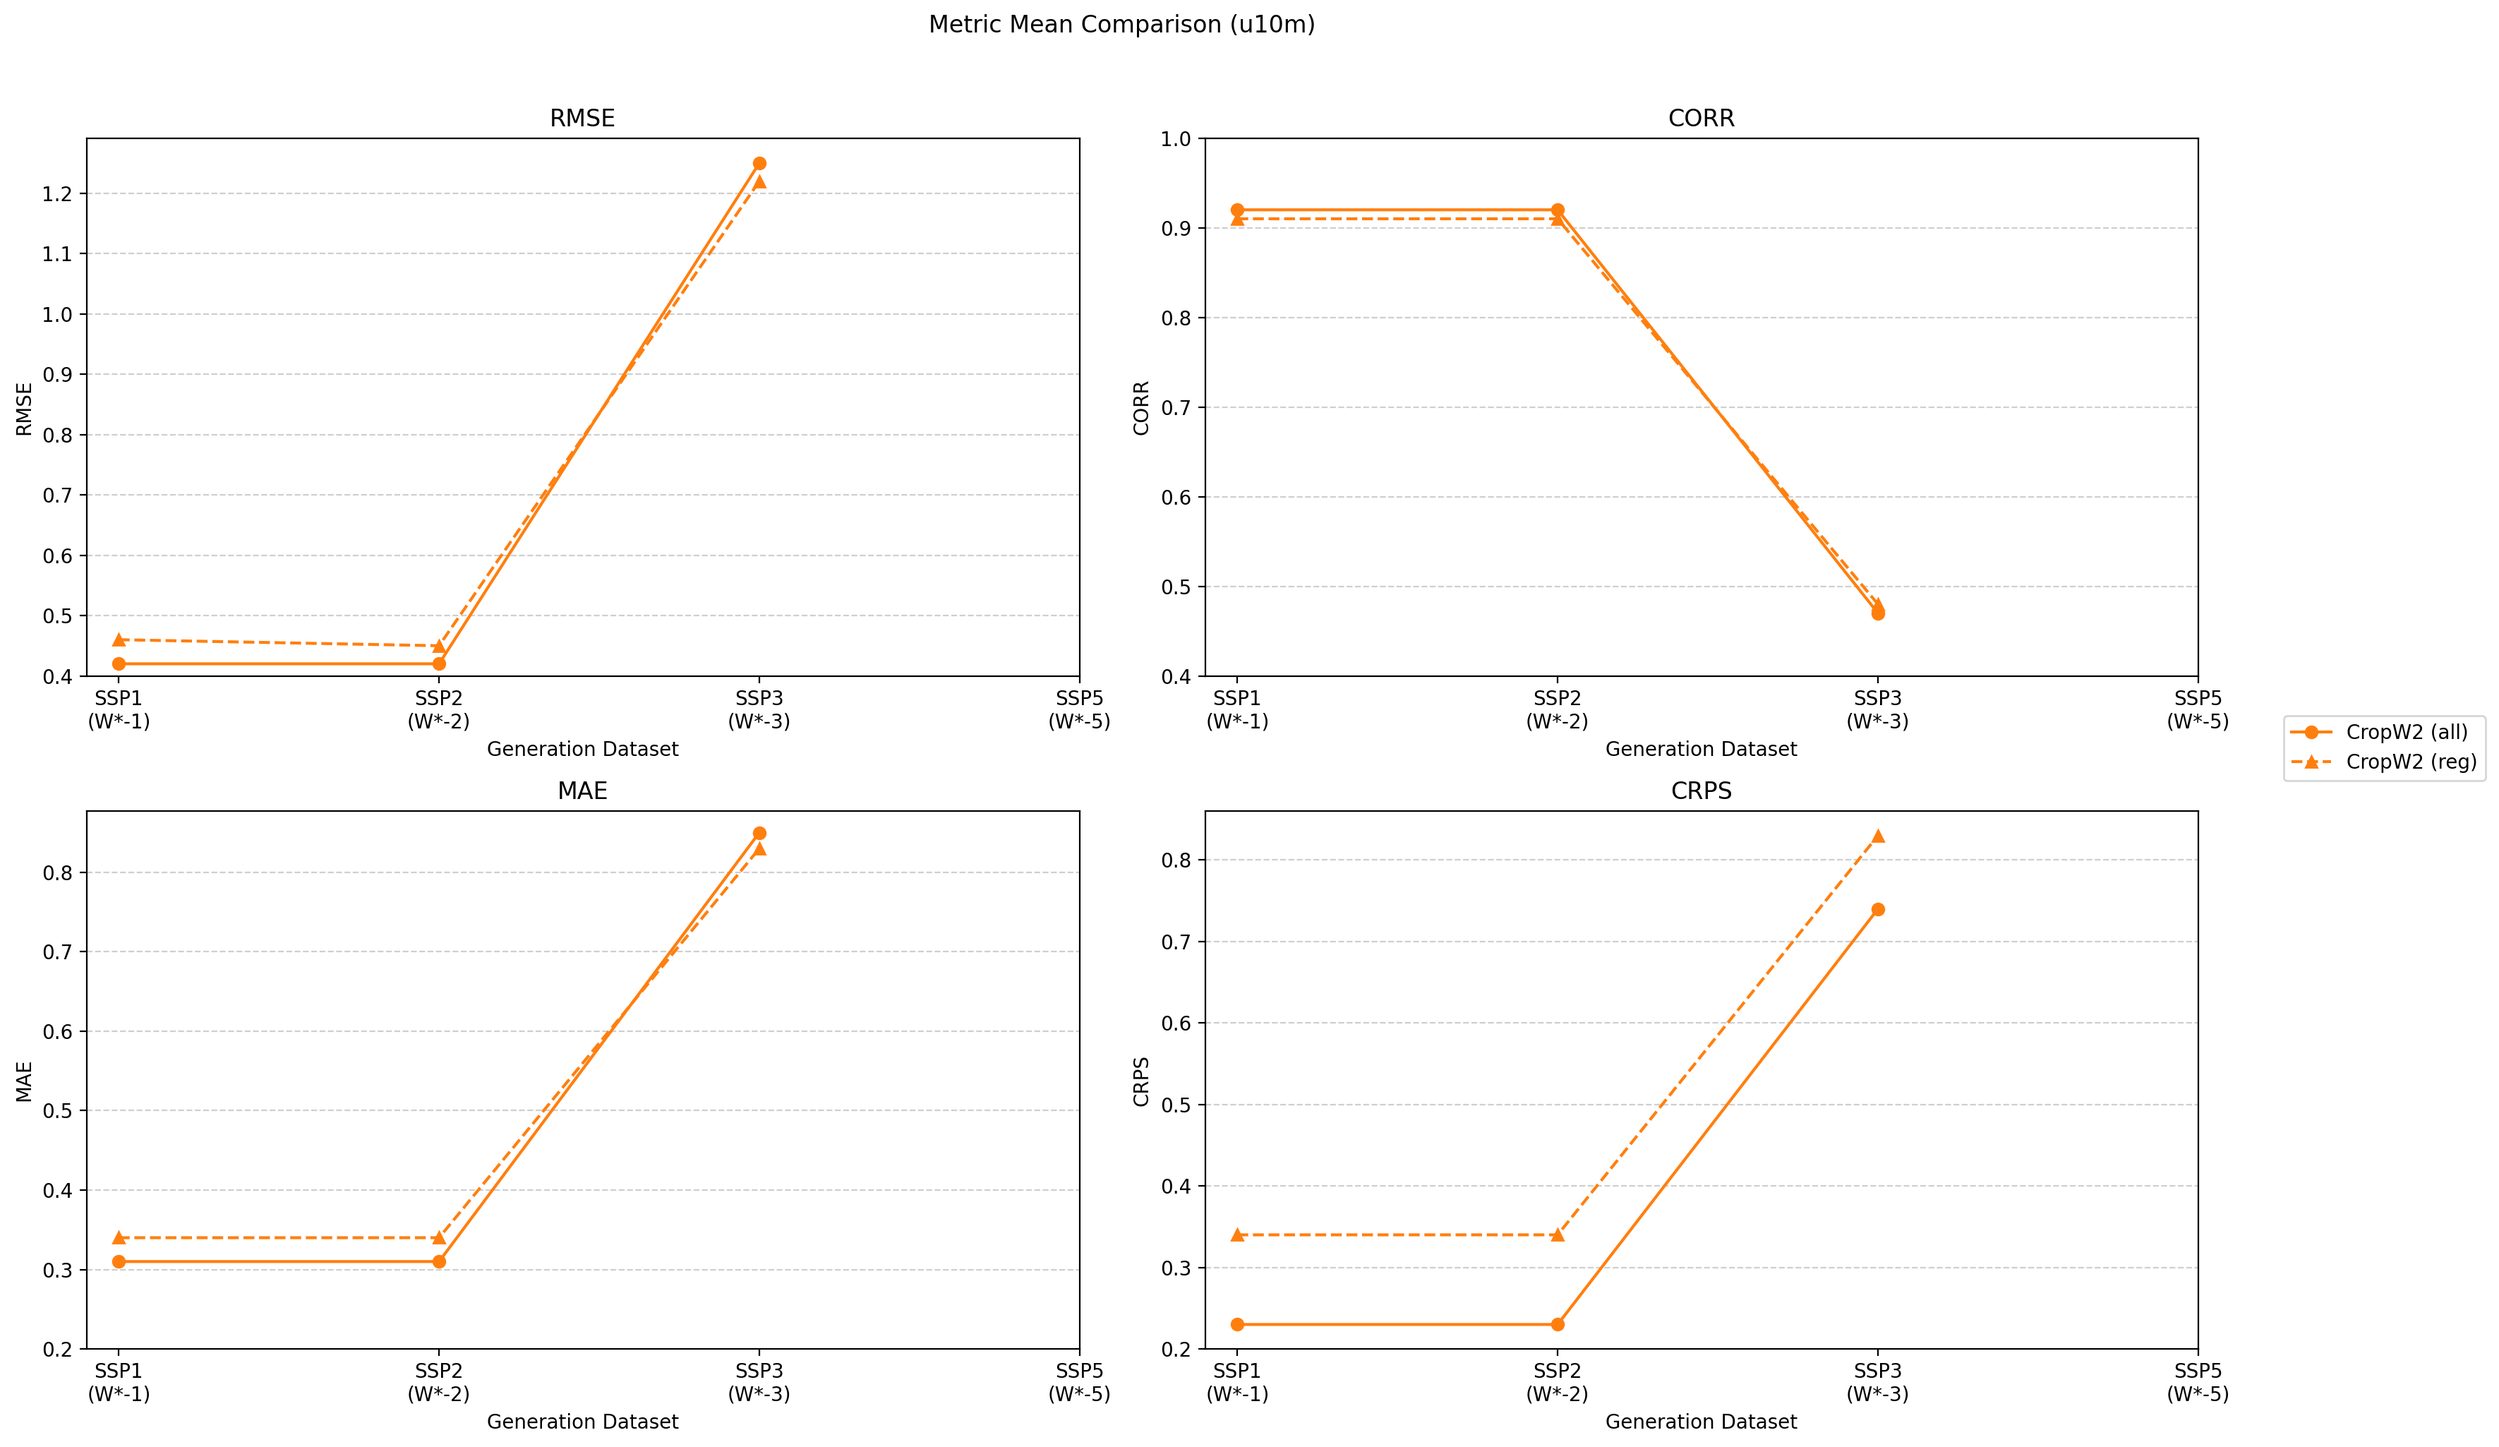
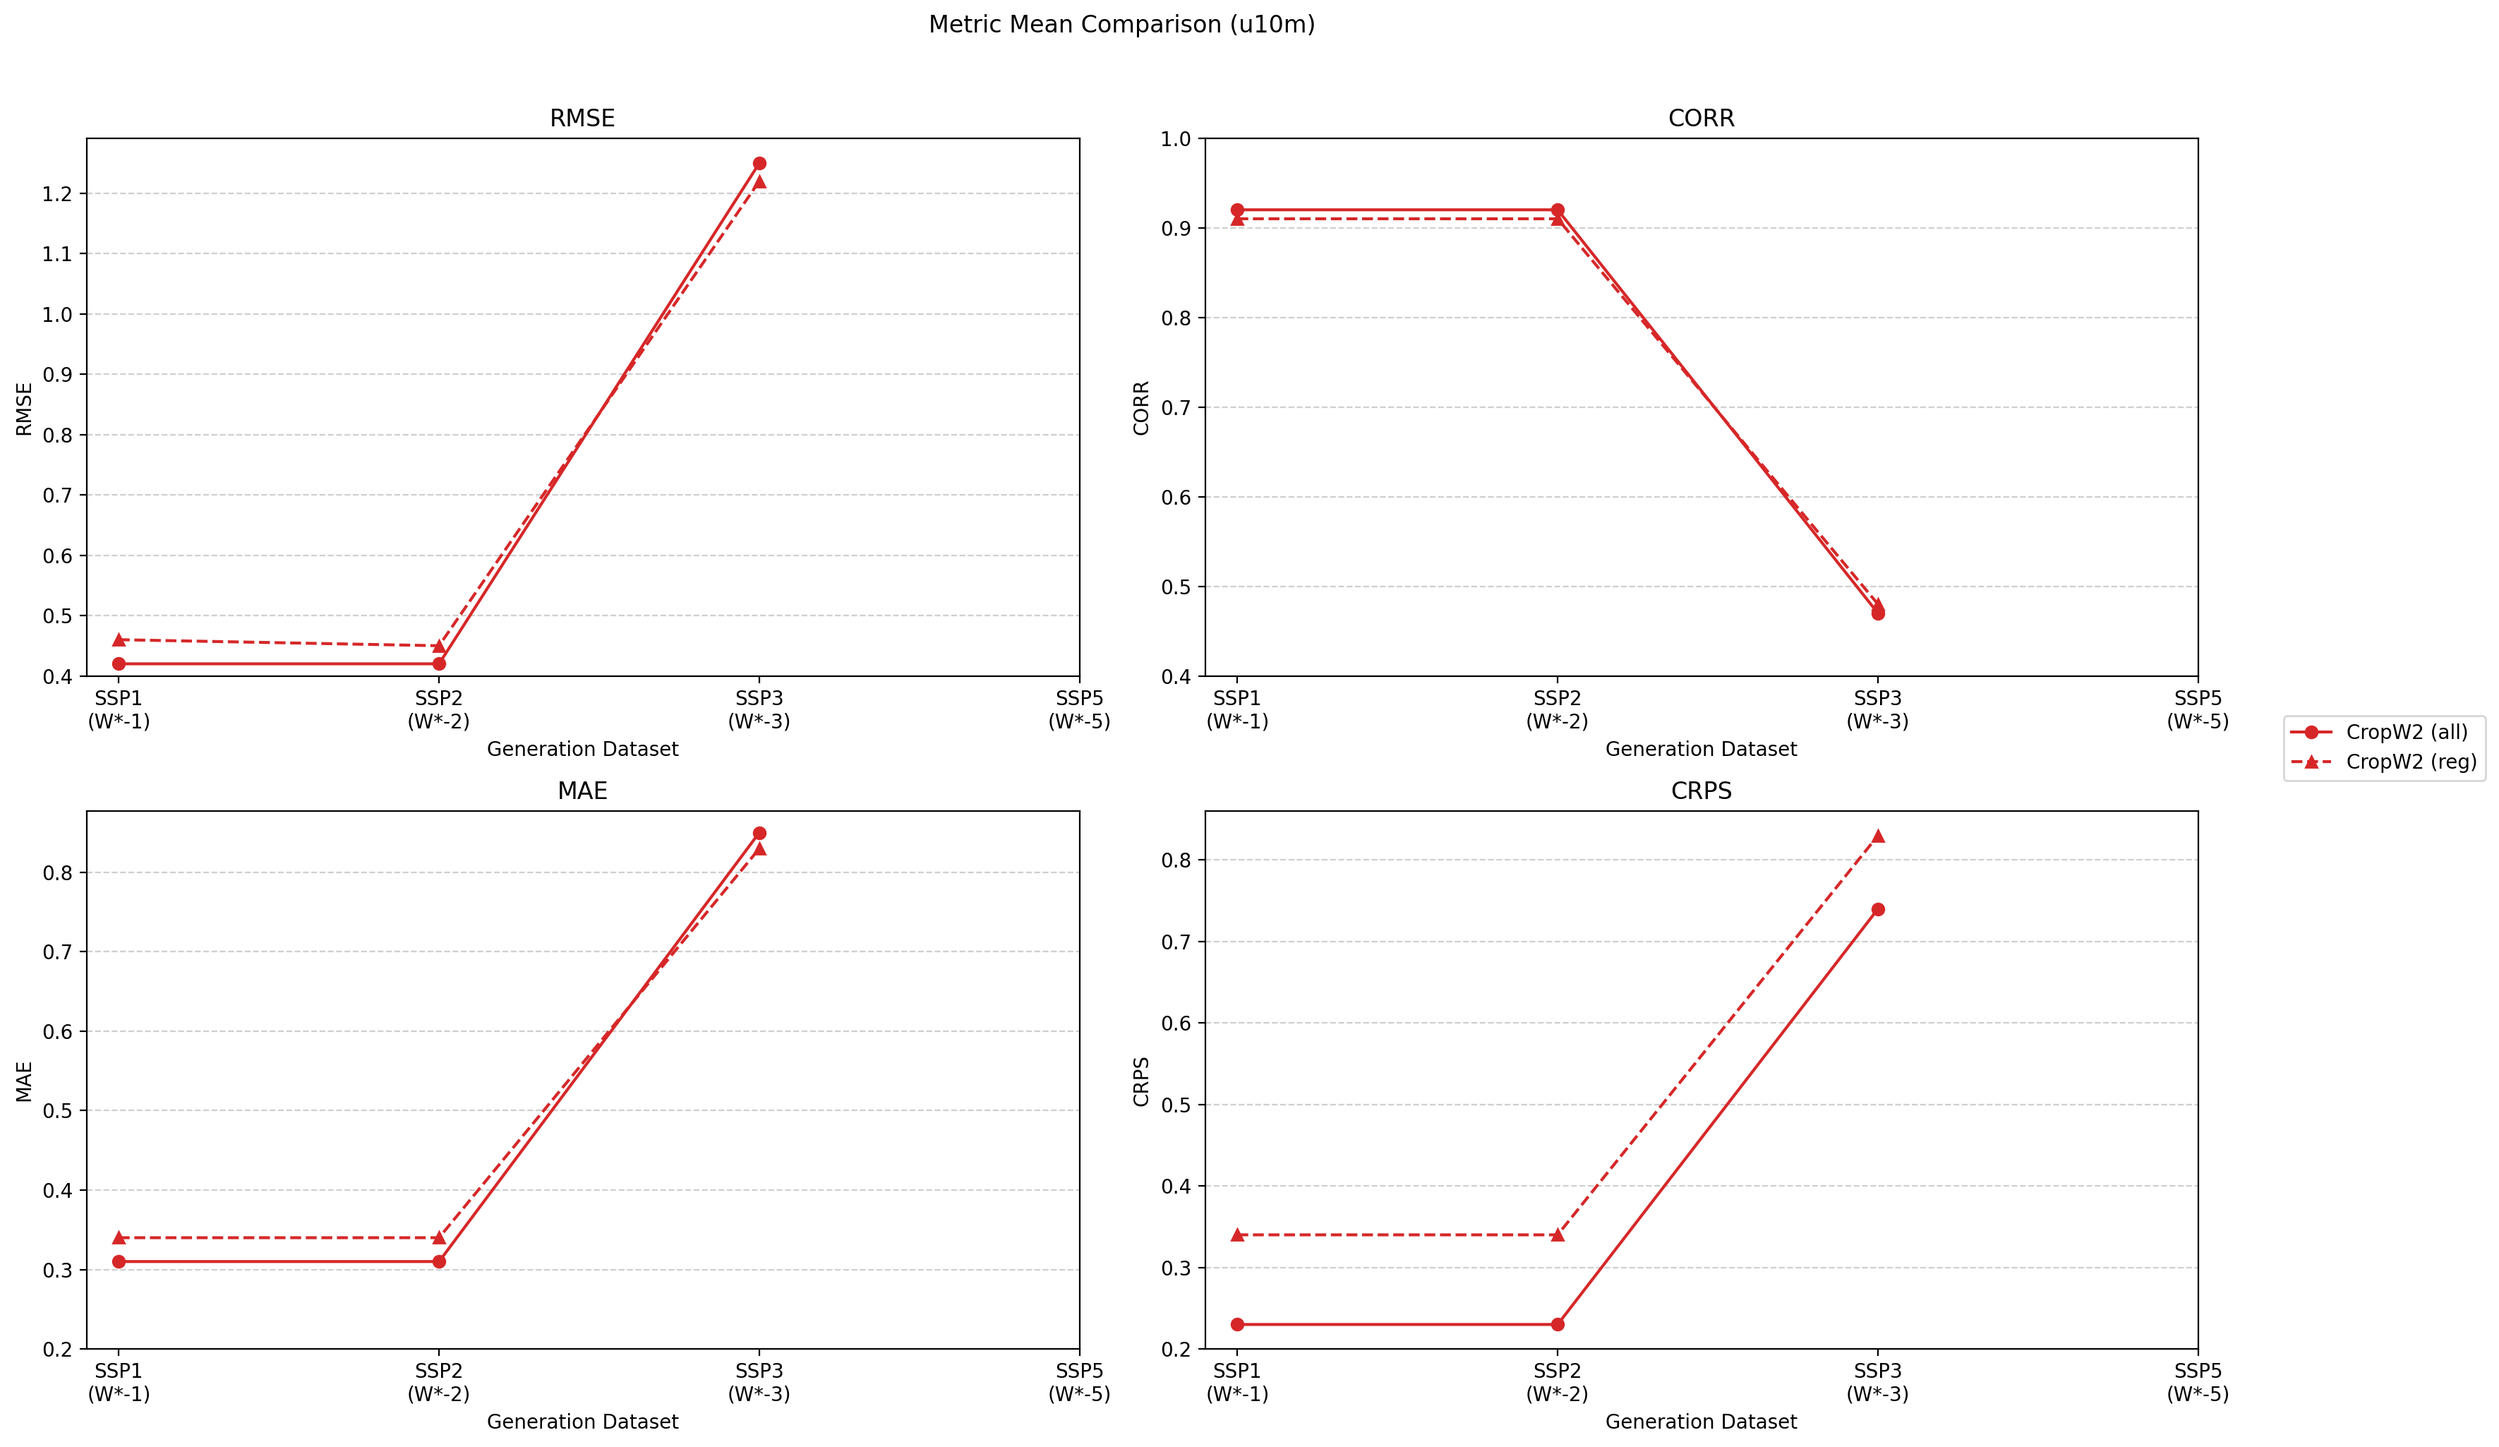
Split nyear_w_cmp.png for W1 & W2 respectively.

diff --git a/docs/js/util.js b/docs/js/util.js
@@ -68,17 +68,22 @@ function generateExperimentGroupFiles(group) {
     if (group === "CropW") {
         // Helper to build comparison files
         const makeComparison = (label, suffix) => ({
-            title: `Comparison vs. ${label}`,
+            title: `[all] Comparison with ${label}`,
             files: Object.fromEntries(
-                vars.map(k => [k, [
-                    `${k}/mean_${suffix}_cmp.png`,
-                    `${k}/nyear_${suffix}_cmp.png`
-                ]])
+                vars.map(k => [
+                    k,
+                    [
+                        `mean_${suffix}_cmp.png`,
+                        ...(suffix === "w"
+                            ? [`nyear_${suffix}1_cmp.png`, `nyear_${suffix}2_cmp.png`]
+                            : [`nyear_${suffix}_cmp.png`])
+                    ].map(f => `${k}/${f}`)
+                ])
             )
         });
 
         filesList.push(
-            makeComparison("W*", "w")
+            makeComparison("W*", "w"),
             // makeComparison("B*", "b")
         );
     }

diff --git a/src/plot_helper/comparison.py b/src/plot_helper/comparison.py
@@ -66,9 +66,9 @@ GROUP_COLORS = {
     "W1a": "tab:olive",
     "W1": "tab:blue",
     "W2": "tab:orange",
-    "CropW1a": "tab:olive",  # grey
-    "CropW1": "tab:blue",  # green
-    "CropW2": "tab:orange",  # brown
+    "CropW1a": "tab:grey",
+    "CropW1": "tab:green",
+    "CropW2": "tab:red",
 }
 LAB_STYLE = {
     "all": {"linestyle": "-", "marker": "o"},
